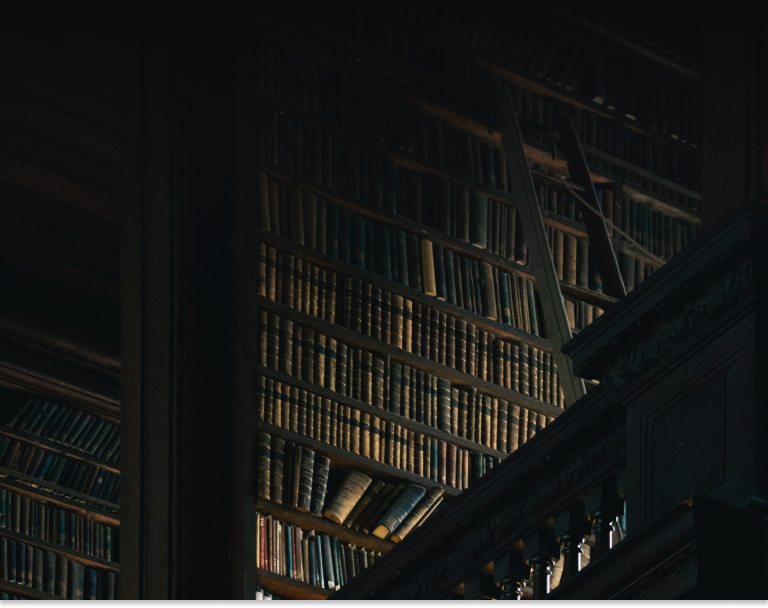
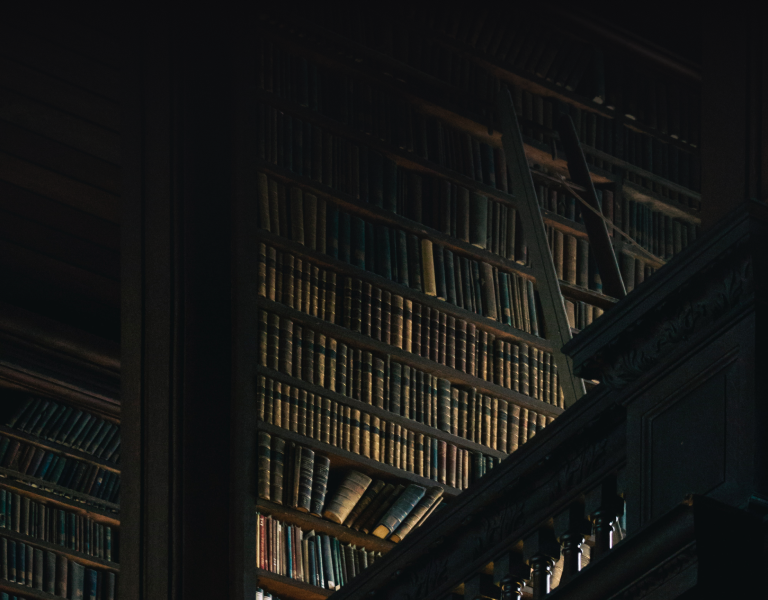
fix: fixed background image

diff --git a/library/js/index.js b/library/js/index.js
@@ -6,7 +6,8 @@ document.getElementById("menu").addEventListener('click', event => {
 document.getElementById("burger").addEventListener('click', event => {
     event._isClickWithInMenu = true;
 });
-document.body.addEventListener('click', event => {
-    if (event._isClickWithInMenu) return;
-    document.querySelector(".header").classList.remove("open")
+document.querySelectorAll(".header .menu a").forEach(link => {
+    link.addEventListener("click", function(event) {
+        document.querySelector(".header").classList.remove("open");
+    });
 });

diff --git a/library/css/style.css b/library/css/style.css
@@ -125,7 +125,9 @@ html {
 }
 
 .welcome {
-  background-image: url(../image/welcome-background.png);
+  background-image: linear-gradient(180deg, #0C0C0E 0%, #0C0C0E 0.01%, rgba(18, 18, 21, 0.1) 100%), url(../image/welcome-backgrounFull.jpeg);
+  background-size: cover;
+  background-position: center center;
   max-width: 1440px;
   height: 600px;
   display: flex;

diff --git a/library/sass/blocks/_welcome.sass b/library/sass/blocks/_welcome.sass
@@ -1,5 +1,7 @@
 .welcome
-    background-image: url(../image/welcome-background.png)
+    background-image: linear-gradient(180deg, #0C0C0E 0%, #0C0C0E 0.01%, rgba(18, 18, 21, 0.10) 100%),url(../image/welcome-backgrounFull.jpeg)
+    background-size: cover
+    background-position: center center
     max-width: 1440px
     height: 600px
     display: flex
